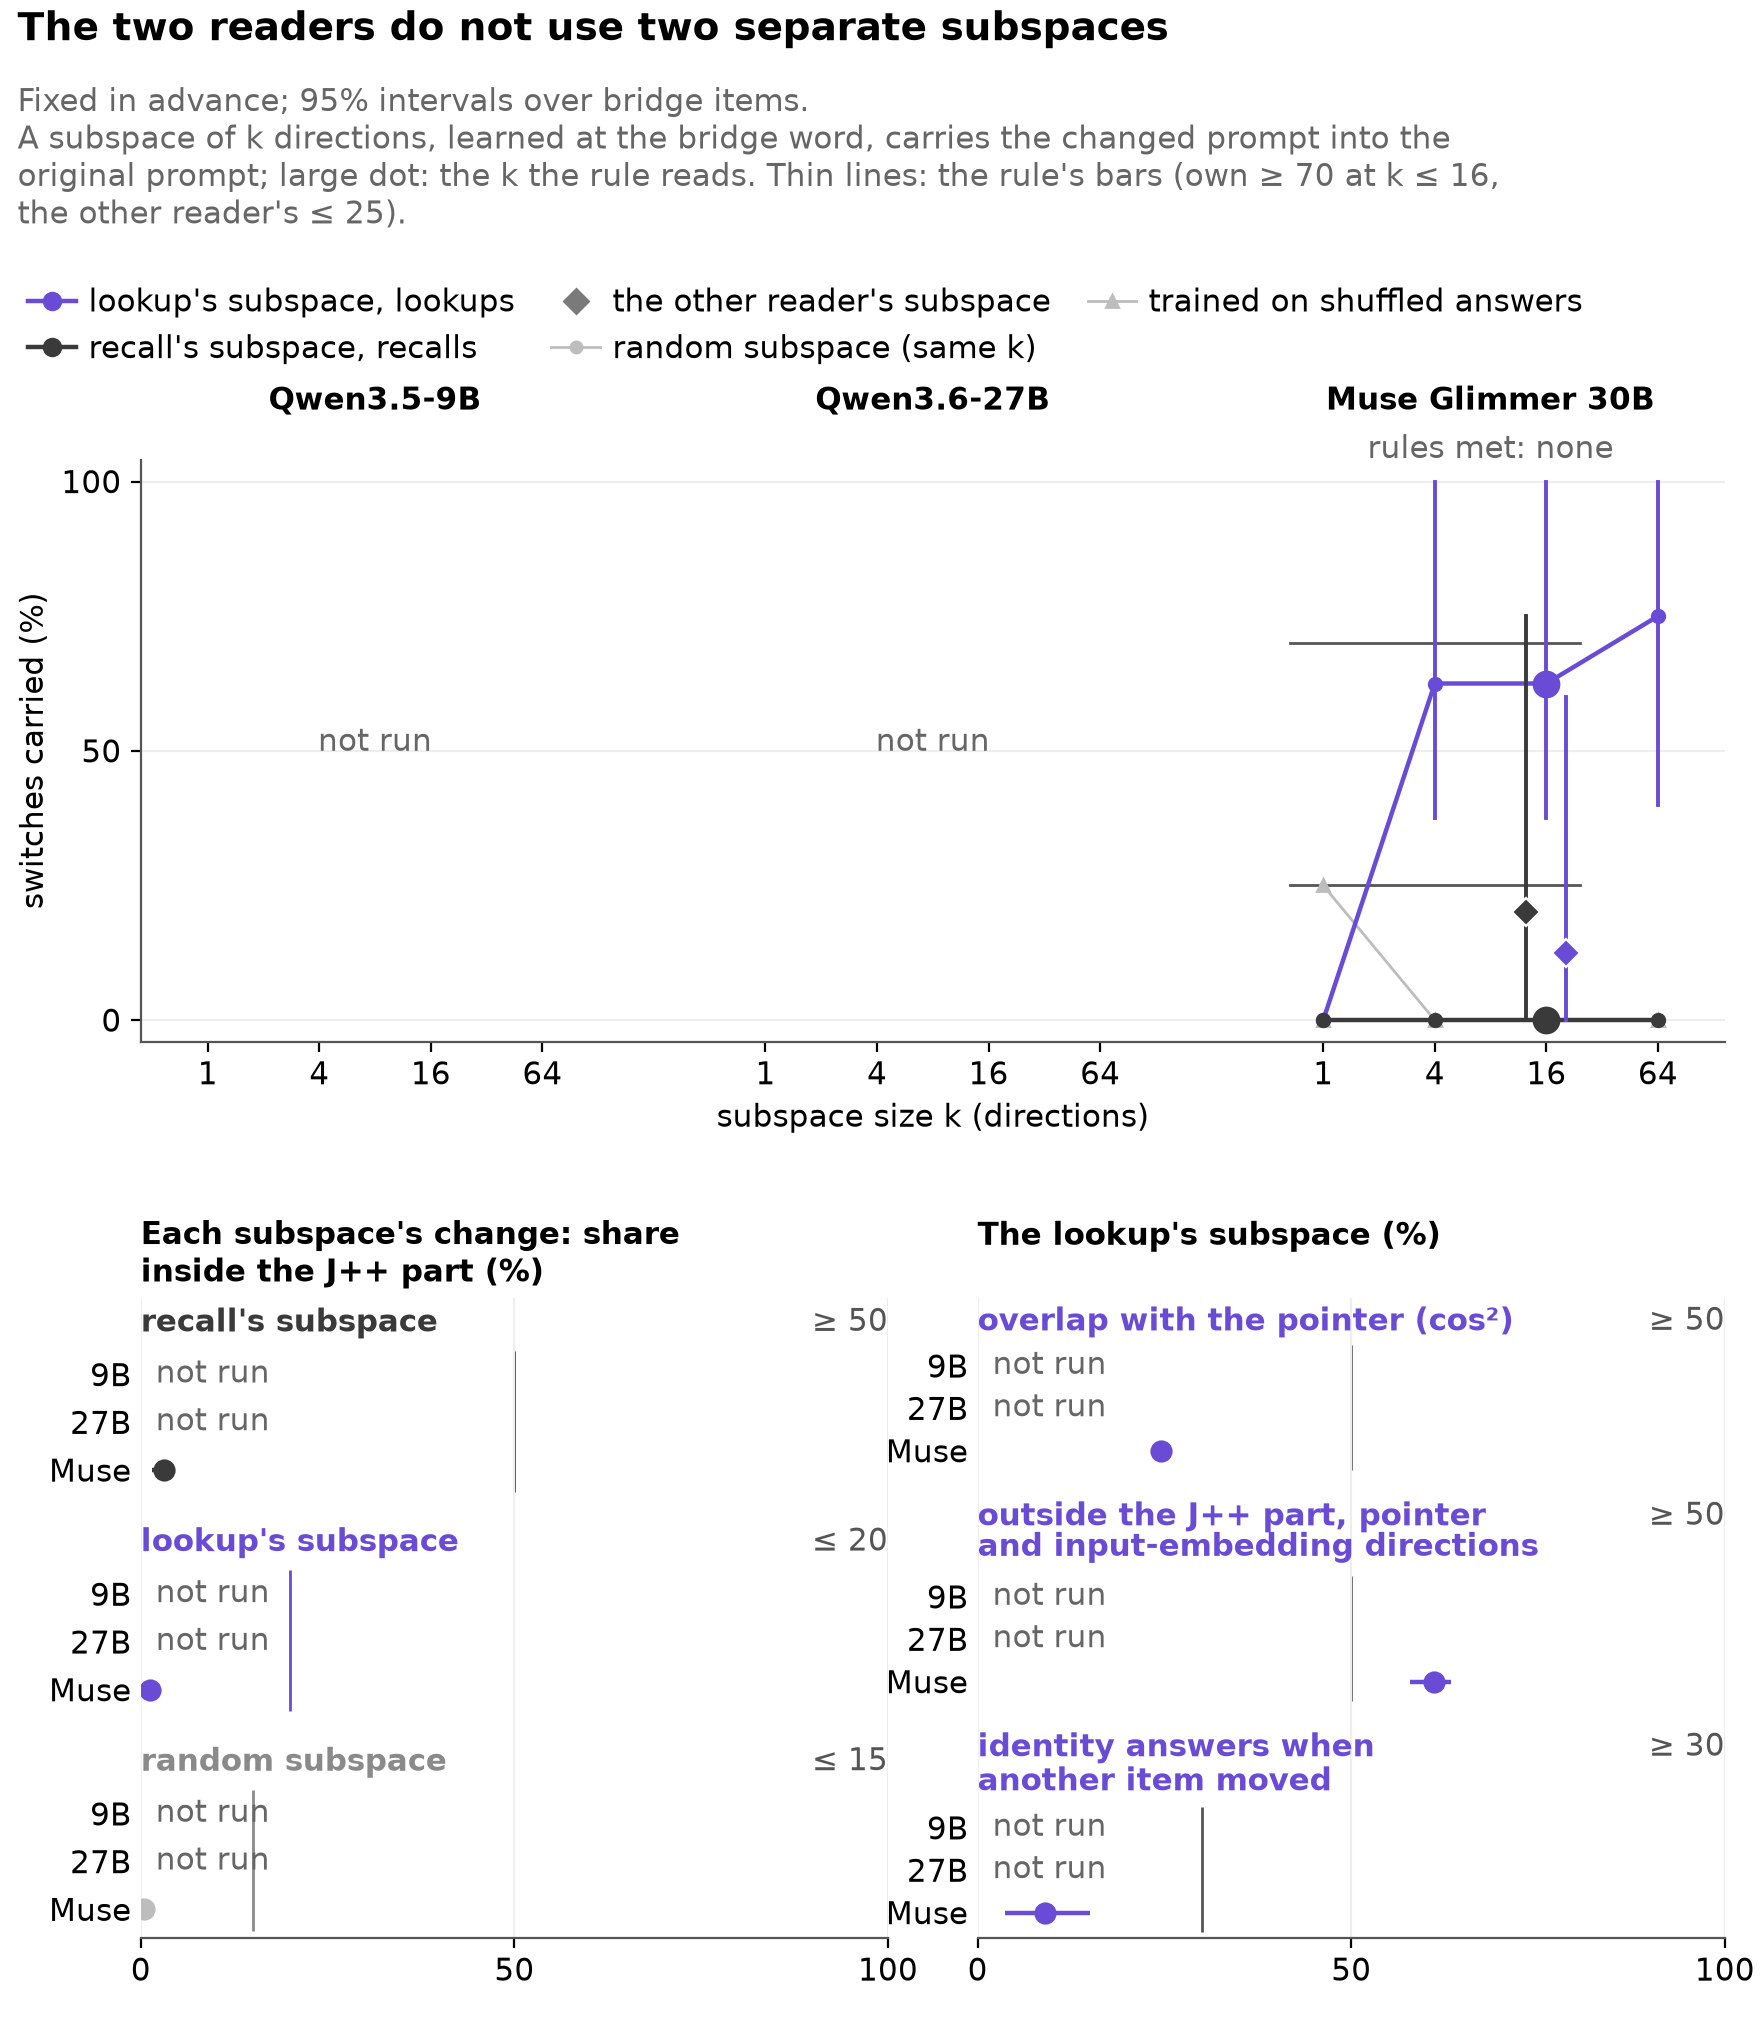
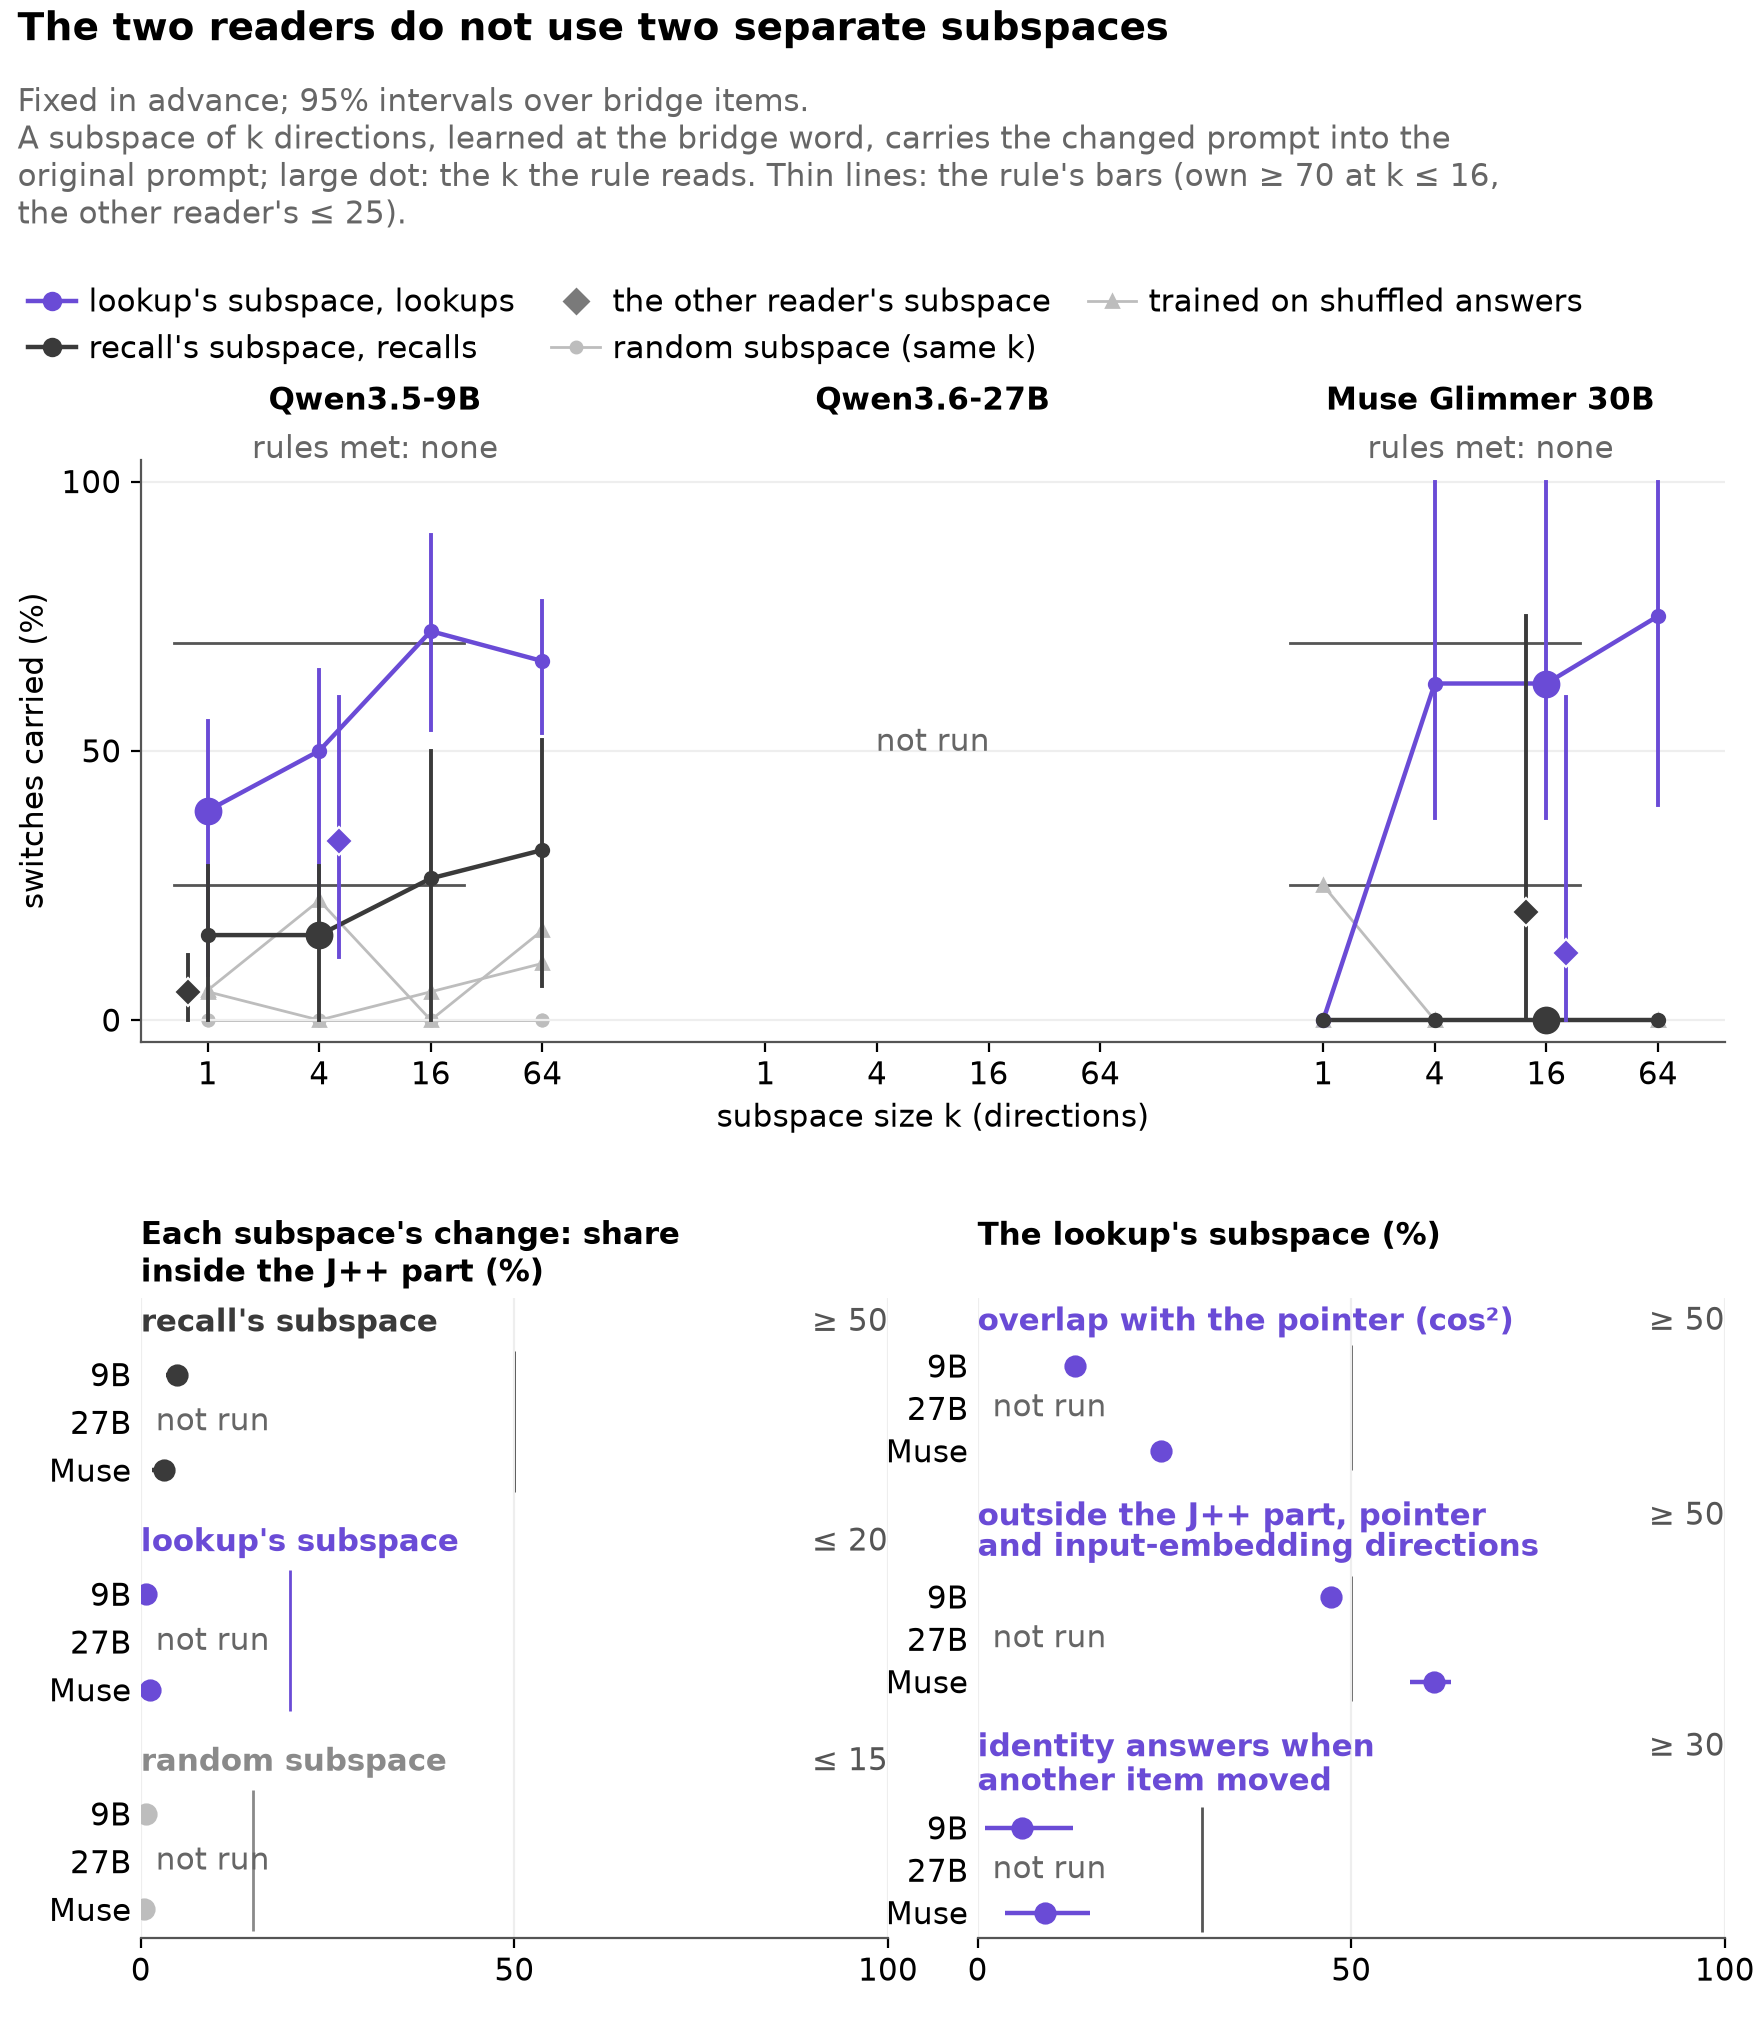
README v6: E12 and E5 figures in (E12's alt text follows its new title); the learned-subspace supplement now shows the 9B beside Muse (48.1's newest verdict); figures and data.csv regenerated

diff --git a/docs/depth/README.md b/docs/depth/README.md
@@ -10,7 +10,7 @@
 - **The position is an address:** readable early, used late, removable, swappable, one code per slot, not verbalizable [A/B].
 - **What did not hold:** four mechanism tests, a person mark at the locker sentence, blocking the pick sentence [✗].
 
-**Status.** Qwen3.5-9B, Qwen3.6-27B, Muse Glimmer 30B (another family), Qwen3.5-122B-A10B (FP8) on the first tests; 28 Oct 2026. Unverified until hand-checked. Built at 6b110631 from the run files.
+**Status.** Qwen3.5-9B, Qwen3.6-27B, Muse Glimmer 30B (another family), Qwen3.5-122B-A10B (FP8) on the first tests; 28 Oct 2026. Unverified until hand-checked. Built at 81d287c4 from the run files.
 
 ## Setup
 
@@ -232,7 +232,7 @@
 **Result.** Identity early, position in the last window that reads the word; the probe reads the address 8 (9B) and 16 (Muse) layers before position starts; re-encoded early, one code later (mean overlap 0.28<!-- src: figures/story/data.csv | D4: the address's mean overlap over every pair of window layers --> / 0.21<!-- src: figures/story/data.csv | D4: the address's mean overlap over every pair of window layers -->).
 **Figure.**
 
-![With depth the change moves the lookup by identity, then by position](../../figures/story/fig06b_anatomy.png)
+![The address forms early; the lookup goes by identity, then by position](../../figures/story/fig06b_anatomy.png)
 
 **Conclusion.** The address is written early and read late. Not shown: the 27B (pending).
 
@@ -321,4 +321,4 @@ Models bind entities to attributes in context (Feng & Steinhardt 2023) and track
 
 ## Appendix A. Links
 
-Every number on this page comes from [figures/story/data.csv](../../figures/story/data.csv) and [docs/x0_numbers.json](../x0_numbers.json), each with its source comment; [docs/x0_details.md](../x0_details.md) has the full tables. All figures on one page: [docs/figures_contact_sheet.png](../figures_contact_sheet.png); the figure plan: [docs/figure_plan.md](../figure_plan.md). Supplementary figures: [every scene set](../../figures/supp/s01_split_all_scene_sets.png), [the settings](../../figures/story/fig01b_settings.png), [every part](../../figures/supp/s02_parts_all.png), [parts of the same size](../../figures/story/fig02_specificity.png), [the 27B with more directions](../../figures/story/fig02b_k_curve.png), [the layer sweep](../../figures/story/fig03b_layers.png), [the link copy variants](../../figures/supp/s03d_link_copy_variants.png), [the lookups the change misses](../../figures/supp/s03e_cumulative.png), [the depth candidate on the main test](../../figures/story/fig06_depth.png), [the address across depth](../../figures/story/fig06c_address_depth.png), [the lookup's errors](../../figures/story/fig07c_probe_errors.png), [the first locker](../../figures/story/fig08_first_locker.png), [the first sentence and the moves](../../figures/supp/s08b_pointer_moves_and_neutral_sentence.png), [every routes arm](../../figures/supp/s05_routes_all_arms.png), [the blocked pick sentence](../../figures/story/fig09c_formation.png), [chained addresses](../../figures/story/fig09d_chain.png), [what is left of the route](../../figures/story/fig10_what_is_left.png), [attribute probe and MLPs](../../figures/story/fig10b_enrichment.png), [binding](../../figures/story/fig10c_binding.png), [heads](../../figures/story/fig10d_heads.png), [second route](../../figures/story/fig10e_second_route.png), [learned subspaces on Muse](../../figures/supp/s12_das_muse.png), [the scorecard](../../figures/story/fig11_scorecard.png). Earlier figures: [figures/status_2026-10-25/](../../figures/status_2026-10-25/).
+Every number on this page comes from [figures/story/data.csv](../../figures/story/data.csv) and [docs/x0_numbers.json](../x0_numbers.json), each with its source comment; [docs/x0_details.md](../x0_details.md) has the full tables. All figures on one page: [docs/figures_contact_sheet.png](../figures_contact_sheet.png); the figure plan: [docs/figure_plan.md](../figure_plan.md). Supplementary figures: [every scene set](../../figures/supp/s01_split_all_scene_sets.png), [the settings](../../figures/story/fig01b_settings.png), [every part](../../figures/supp/s02_parts_all.png), [parts of the same size](../../figures/story/fig02_specificity.png), [the 27B with more directions](../../figures/story/fig02b_k_curve.png), [the layer sweep](../../figures/story/fig03b_layers.png), [the link copy variants](../../figures/supp/s03d_link_copy_variants.png), [the lookups the change misses](../../figures/supp/s03e_cumulative.png), [the depth candidate on the main test](../../figures/story/fig06_depth.png), [the address across depth](../../figures/story/fig06c_address_depth.png), [the lookup's errors](../../figures/story/fig07c_probe_errors.png), [the first locker](../../figures/story/fig08_first_locker.png), [the first sentence and the moves](../../figures/supp/s08b_pointer_moves_and_neutral_sentence.png), [every routes arm](../../figures/supp/s05_routes_all_arms.png), [the blocked pick sentence](../../figures/story/fig09c_formation.png), [chained addresses](../../figures/story/fig09d_chain.png), [what is left of the route](../../figures/story/fig10_what_is_left.png), [attribute probe and MLPs](../../figures/story/fig10b_enrichment.png), [binding](../../figures/story/fig10c_binding.png), [heads](../../figures/story/fig10d_heads.png), [second route](../../figures/story/fig10e_second_route.png), [learned subspaces (9B, Muse)](../../figures/supp/s12_das_muse.png), [the scorecard](../../figures/story/fig11_scorecard.png). Earlier figures: [figures/status_2026-10-25/](../../figures/status_2026-10-25/).

diff --git a/docs/README.template.md b/docs/README.template.md
@@ -232,7 +232,7 @@
 **Result.** Identity early, position in the last window that reads the word; the probe reads the address 8 (9B) and 16 (Muse) layers before position starts; re-encoded early, one code later (mean overlap {{dp|fig06c|9b|D4: the address's mean overlap over every pair of window layers}} / {{dp|fig06c|muse|D4: the address's mean overlap over every pair of window layers}}).
 **Figure.**
 
-![With depth the change moves the lookup by identity, then by position](figures/story/fig06b_anatomy.png)
+![The address forms early; the lookup goes by identity, then by position](figures/story/fig06b_anatomy.png)
 
 **Conclusion.** The address is written early and read late. Not shown: the 27B (pending).
 
@@ -321,4 +321,4 @@ Models bind entities to attributes in context (Feng & Steinhardt 2023) and track
 
 ## Appendix A. Links
 
-Every number on this page comes from [figures/story/data.csv](figures/story/data.csv) and [docs/x0_numbers.json](docs/x0_numbers.json), each with its source comment; [docs/x0_details.md](docs/x0_details.md) has the full tables. All figures on one page: [docs/figures_contact_sheet.png](docs/figures_contact_sheet.png); the figure plan: [docs/figure_plan.md](docs/figure_plan.md). Supplementary figures: [every scene set](figures/supp/s01_split_all_scene_sets.png), [the settings](figures/story/fig01b_settings.png), [every part](figures/supp/s02_parts_all.png), [parts of the same size](figures/story/fig02_specificity.png), [the 27B with more directions](figures/story/fig02b_k_curve.png), [the layer sweep](figures/story/fig03b_layers.png), [the link copy variants](figures/supp/s03d_link_copy_variants.png), [the lookups the change misses](figures/supp/s03e_cumulative.png), [the depth candidate on the main test](figures/story/fig06_depth.png), [the address across depth](figures/story/fig06c_address_depth.png), [the lookup's errors](figures/story/fig07c_probe_errors.png), [the first locker](figures/story/fig08_first_locker.png), [the first sentence and the moves](figures/supp/s08b_pointer_moves_and_neutral_sentence.png), [every routes arm](figures/supp/s05_routes_all_arms.png), [the blocked pick sentence](figures/story/fig09c_formation.png), [chained addresses](figures/story/fig09d_chain.png), [what is left of the route](figures/story/fig10_what_is_left.png), [attribute probe and MLPs](figures/story/fig10b_enrichment.png), [binding](figures/story/fig10c_binding.png), [heads](figures/story/fig10d_heads.png), [second route](figures/story/fig10e_second_route.png), [learned subspaces on Muse](figures/supp/s12_das_muse.png), [the scorecard](figures/story/fig11_scorecard.png). Earlier figures: [figures/status_2026-10-25/](figures/status_2026-10-25/).
+Every number on this page comes from [figures/story/data.csv](figures/story/data.csv) and [docs/x0_numbers.json](docs/x0_numbers.json), each with its source comment; [docs/x0_details.md](docs/x0_details.md) has the full tables. All figures on one page: [docs/figures_contact_sheet.png](docs/figures_contact_sheet.png); the figure plan: [docs/figure_plan.md](docs/figure_plan.md). Supplementary figures: [every scene set](figures/supp/s01_split_all_scene_sets.png), [the settings](figures/story/fig01b_settings.png), [every part](figures/supp/s02_parts_all.png), [parts of the same size](figures/story/fig02_specificity.png), [the 27B with more directions](figures/story/fig02b_k_curve.png), [the layer sweep](figures/story/fig03b_layers.png), [the link copy variants](figures/supp/s03d_link_copy_variants.png), [the lookups the change misses](figures/supp/s03e_cumulative.png), [the depth candidate on the main test](figures/story/fig06_depth.png), [the address across depth](figures/story/fig06c_address_depth.png), [the lookup's errors](figures/story/fig07c_probe_errors.png), [the first locker](figures/story/fig08_first_locker.png), [the first sentence and the moves](figures/supp/s08b_pointer_moves_and_neutral_sentence.png), [every routes arm](figures/supp/s05_routes_all_arms.png), [the blocked pick sentence](figures/story/fig09c_formation.png), [chained addresses](figures/story/fig09d_chain.png), [what is left of the route](figures/story/fig10_what_is_left.png), [attribute probe and MLPs](figures/story/fig10b_enrichment.png), [binding](figures/story/fig10c_binding.png), [heads](figures/story/fig10d_heads.png), [second route](figures/story/fig10e_second_route.png), [learned subspaces (9B, Muse)](figures/supp/s12_das_muse.png), [the scorecard](figures/story/fig11_scorecard.png). Earlier figures: [figures/status_2026-10-25/](figures/status_2026-10-25/).
